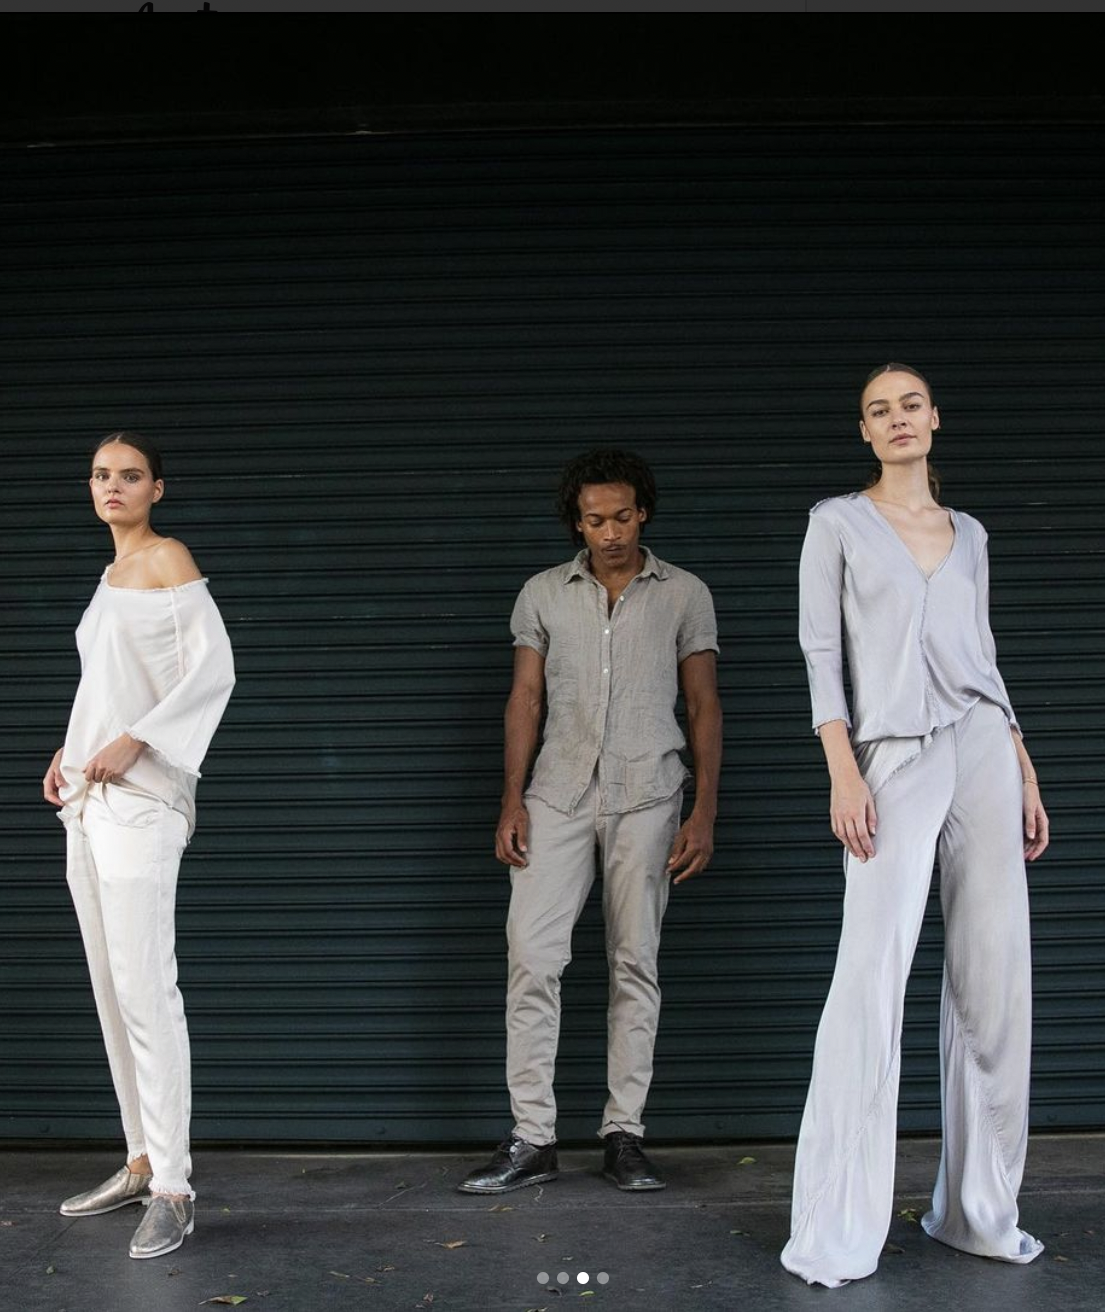
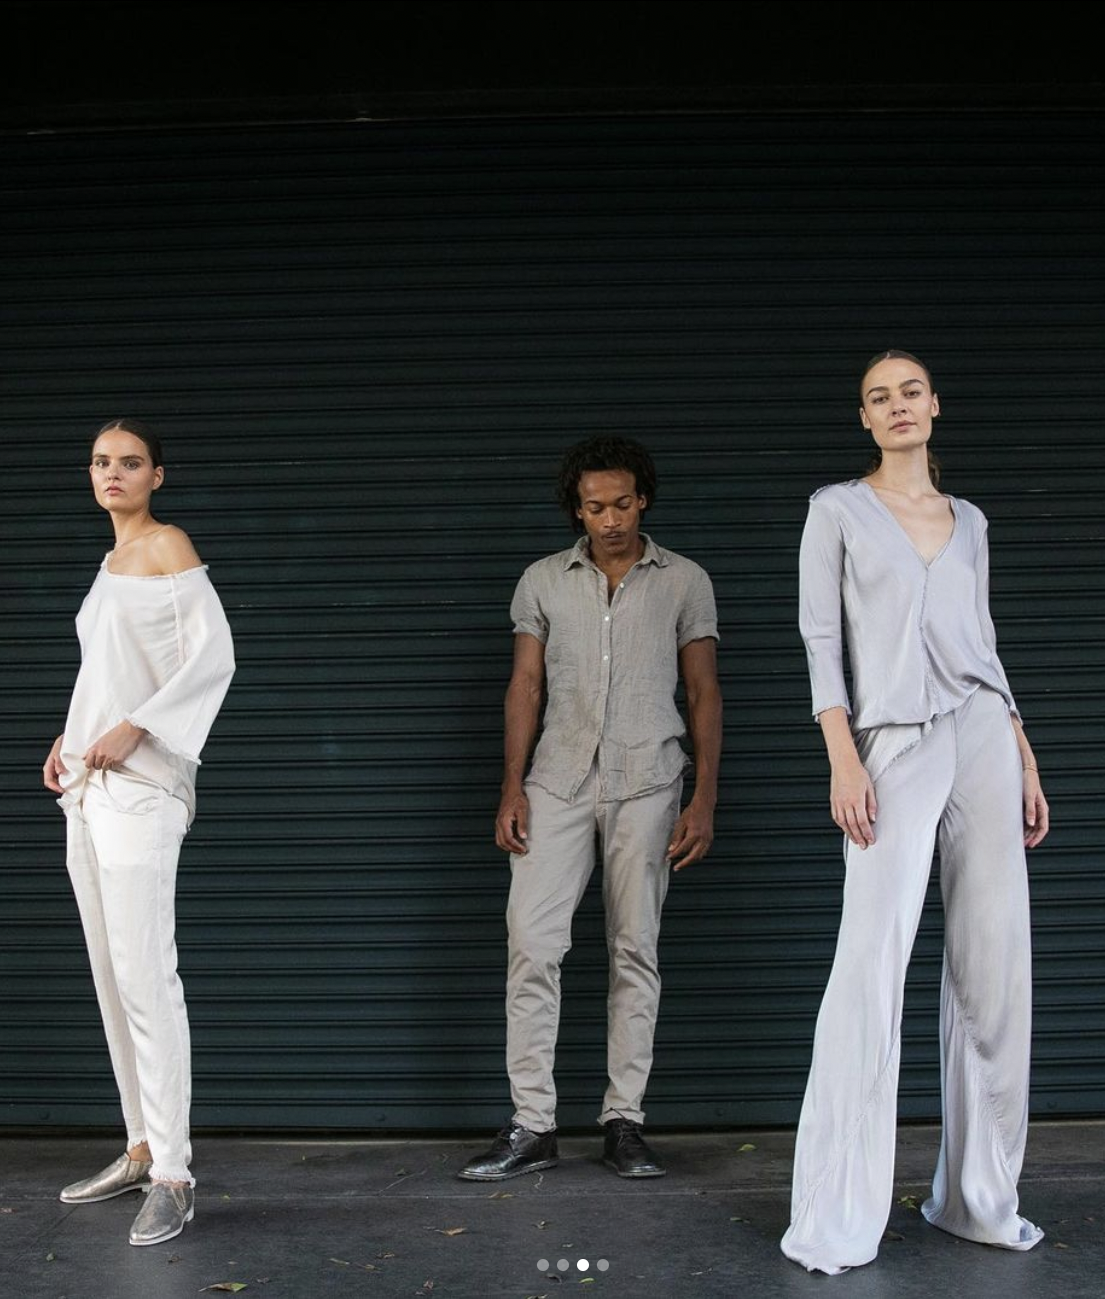
styling gallery

diff --git a/src/Gallery/index.js b/src/Gallery/index.js
@@ -8,12 +8,22 @@ function Gallery(){
         <div>
             <Row>
                 <Col>
-                    <img src={require(`../assets/4.jpeg`)} alt="jaga"/>
-                </Col>
-                <Col>
-                    
+                    <img className="gallery-photos-type1" src={require(`../assets/4.jpeg`)} alt="jaga"/>
                 </Col>
 
+                <Col>
+                    <img className="gallery-photos-type1" src={require(`../assets/3.jpeg`)} alt="jaga"/>
+                </Col>
+            </Row>
+
+            <Row>
+                <Col></Col>
+
+                <Col>
+                    <img className="gallery-photos-type1" src={require(`../assets/9.jpeg`)} alt="jaga"/>
+                </Col>
+
+                <Col></Col>
             </Row>
             
         </div>

diff --git a/src/index.css b/src/index.css
@@ -11,3 +11,14 @@ code {
   font-family: source-code-pro, Menlo, Monaco, Consolas, 'Courier New',
     monospace;
 }
+
+
+.gallery-photos-type1{
+  width : 300px;
+  
+}
+
+img{
+  max-height: 100%;
+  max-width:100%; 
+}
